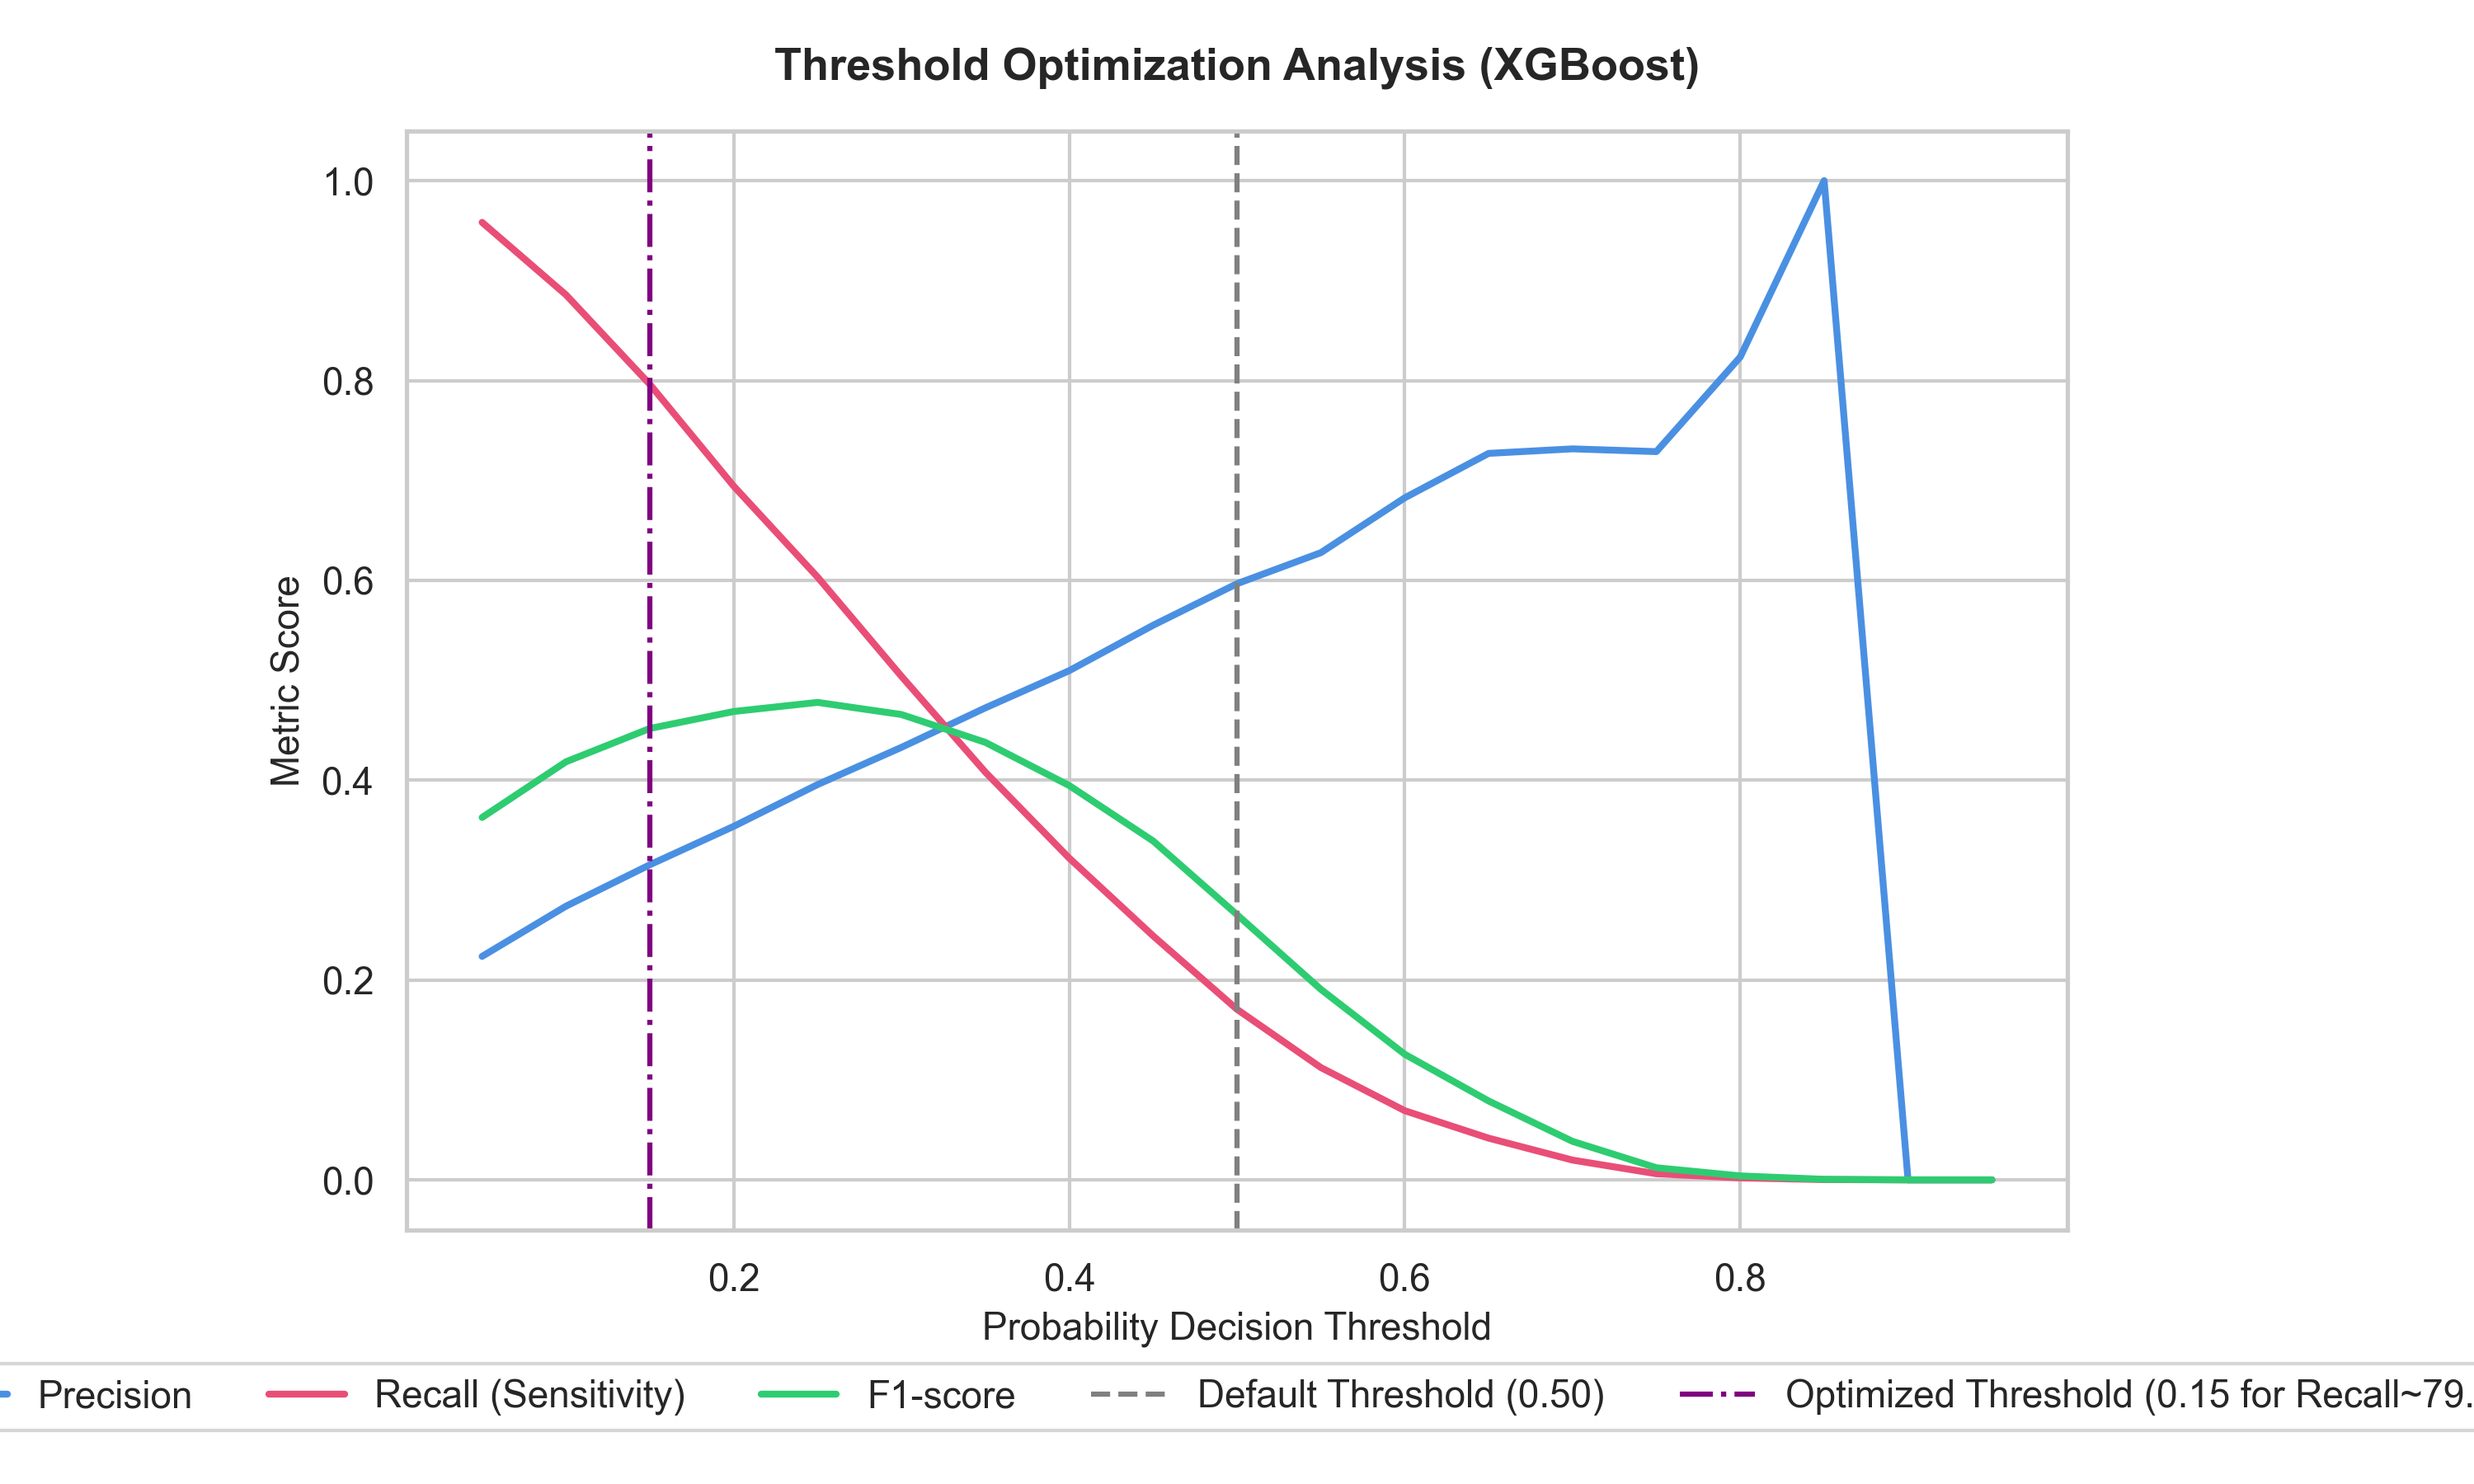
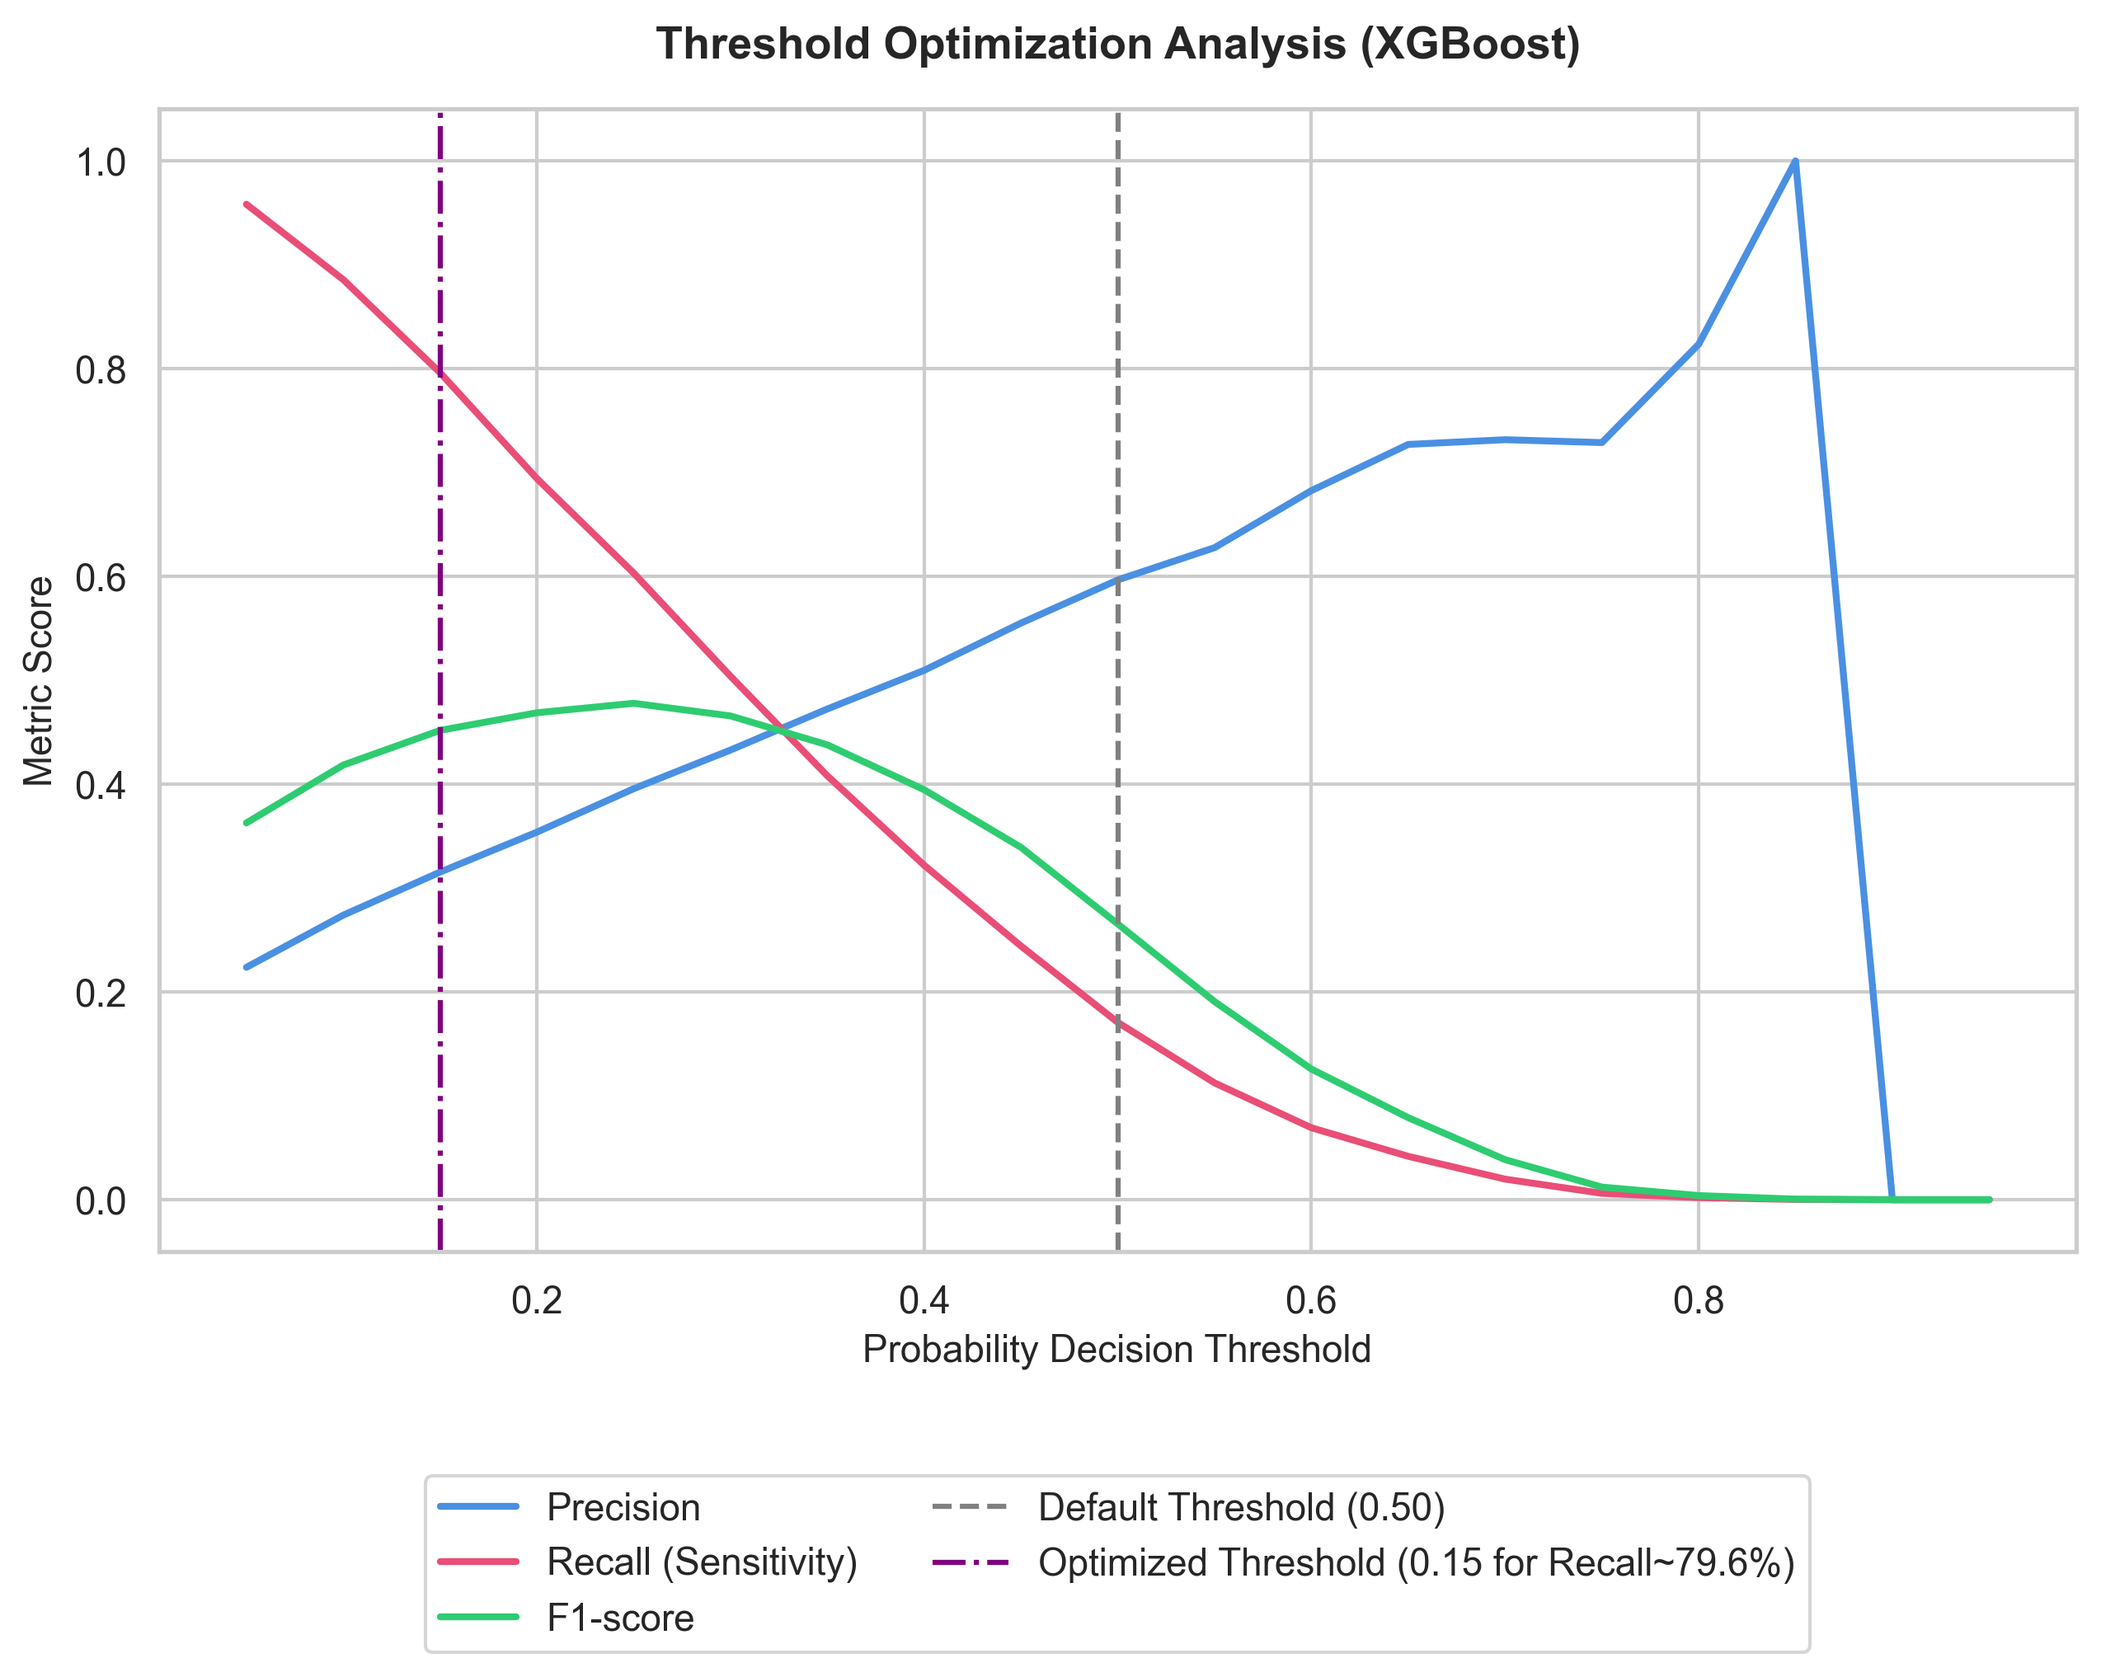
update threshold_analysis

diff --git a/python_analysis/model_training.py b/python_analysis/model_training.py
@@ -235,9 +235,8 @@ def conduct_threshold_analysis(best_model_name, best_model_metrics, y_test):
     opt_precision = df_threshold.loc[closest_idx, "Precision"]
     
     plt.axvline(x=opt_t, color="purple", linestyle="-.", label=f"Optimized Threshold ({opt_t:.2f} for Recall~{opt_recall*100:.1f}%)")
-    plt.legend(loc="lower center", bbox_to_anchor=(0.5, -0.2), ncol=5)
-    plt.tight_layout()
-    plt.savefig(RESULTS_DIR / "threshold_analysis.png", dpi=300)
+    plt.legend(loc="upper center", bbox_to_anchor=(0.5, -0.18), ncol=2, frameon=True)
+    plt.savefig(RESULTS_DIR / "threshold_analysis.png", dpi=300, bbox_inches="tight")
     plt.close()
     
     # Detailed Reports comparison
